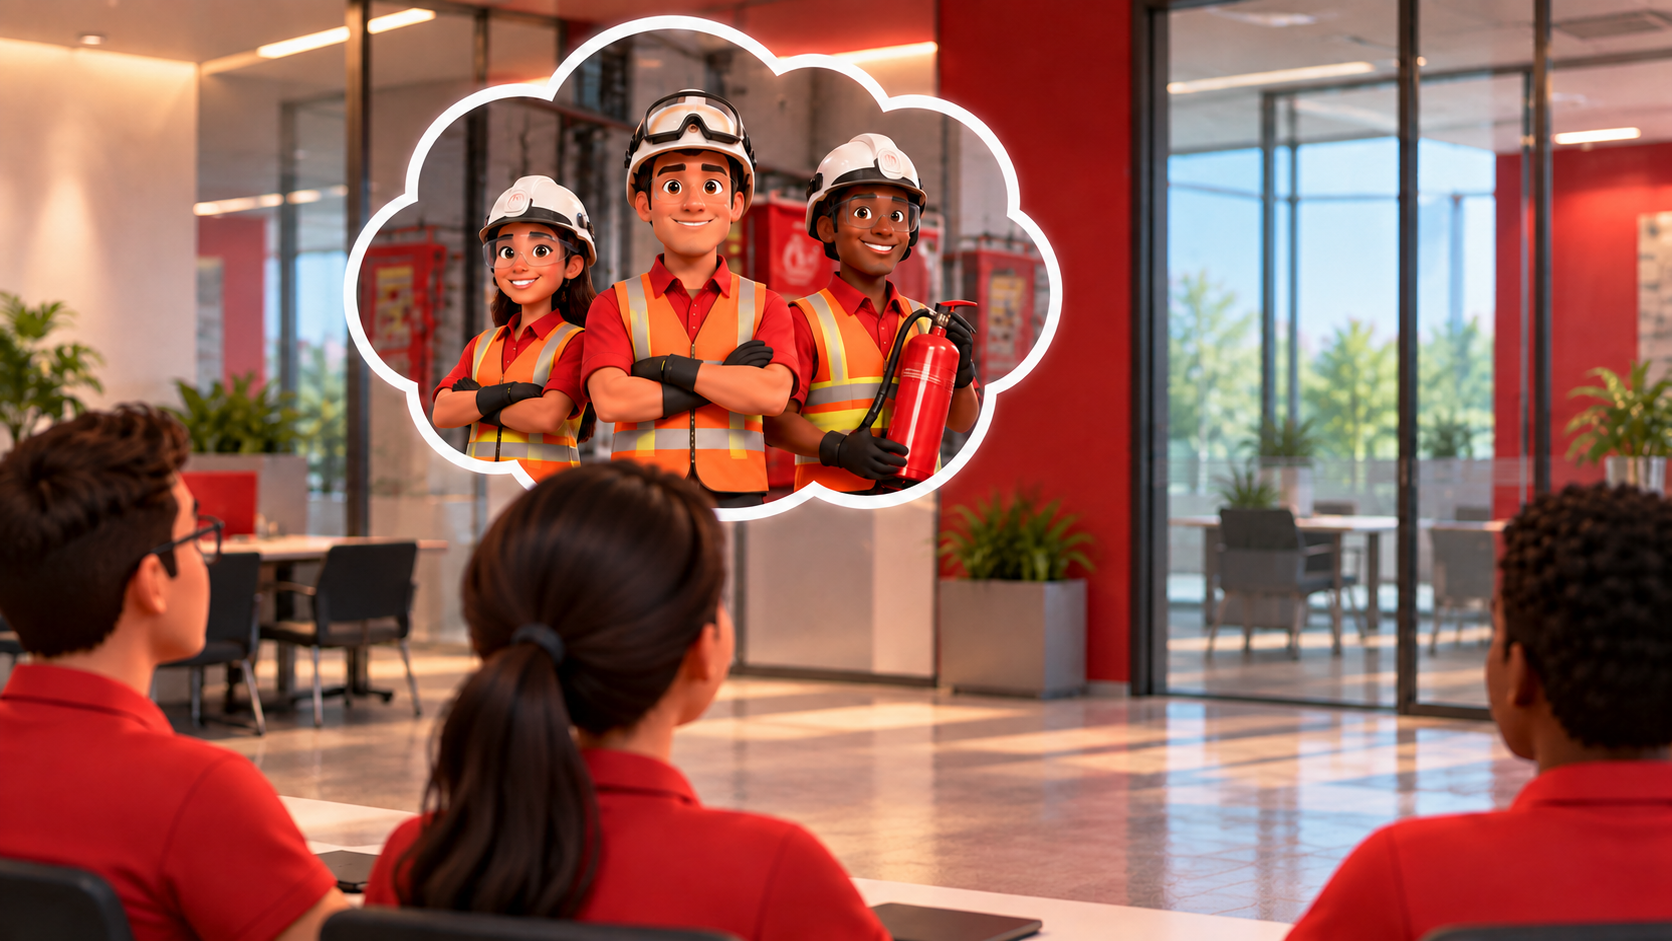
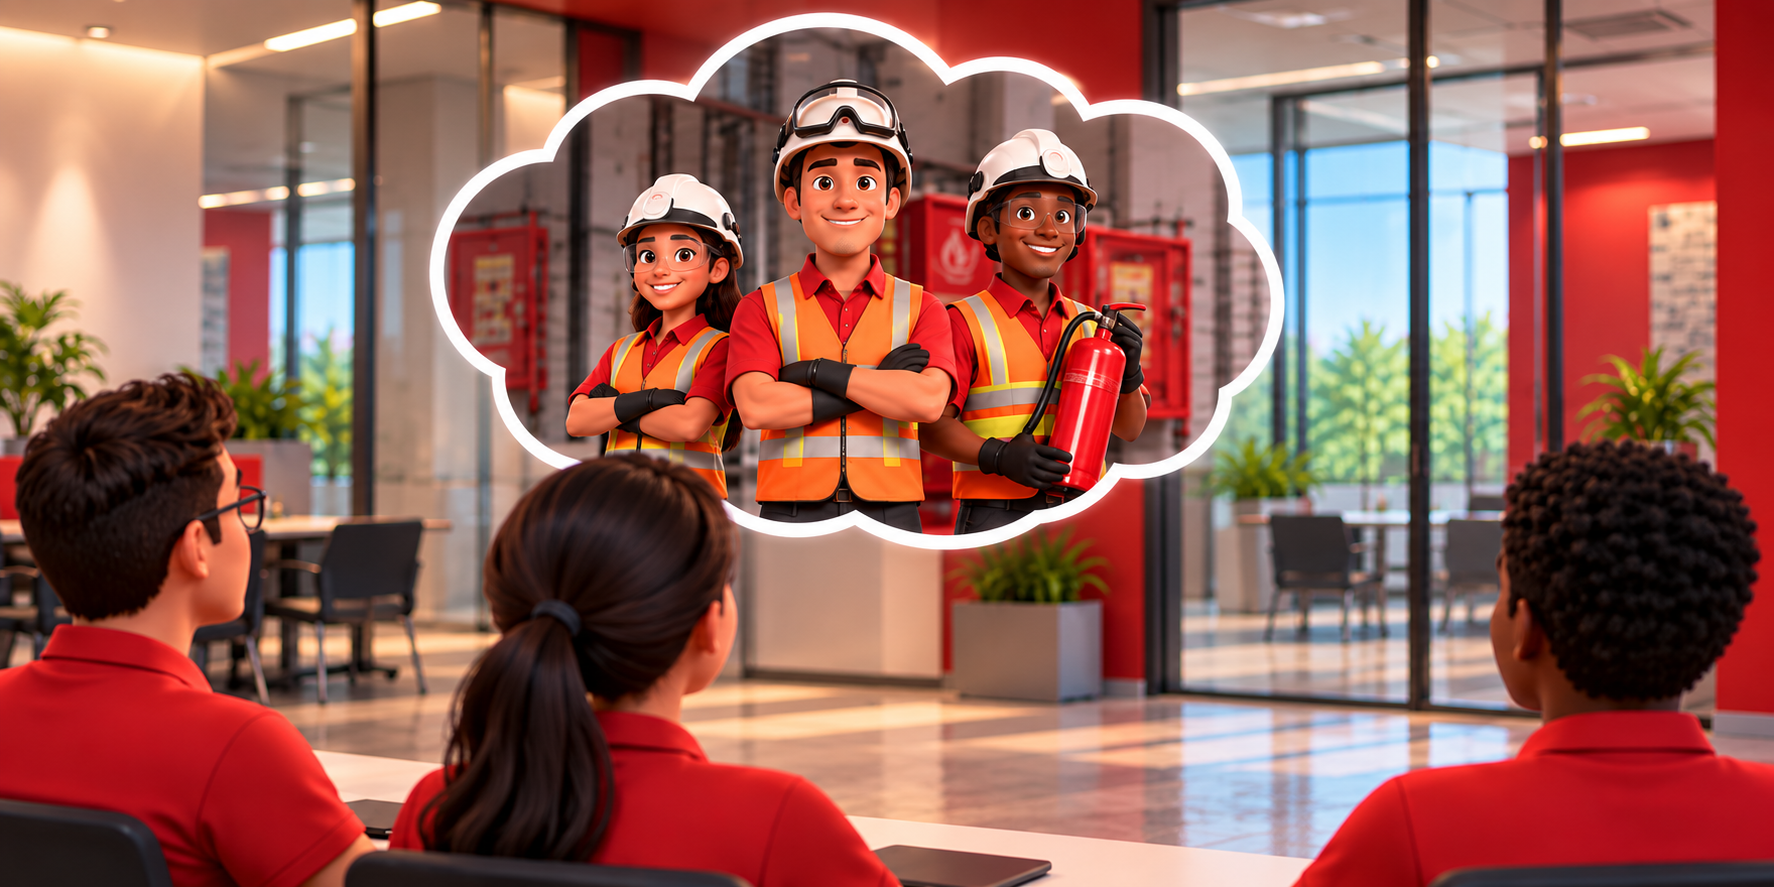
Update quiz images and crop for module 1 question 1.
Adds question photos across modules and adjusts m1-q1 image position.

diff --git a/question-screen-data.js b/question-screen-data.js
@@ -155,7 +155,9 @@ window.QUESTION_SCREEN_SESSION = {
           ],
           "explanation": "A brigada é um grupo organizado de colaboradores capacitados para prevenir, combater, evacuar e prestar primeiros socorros.",
           "review": "Definição de Brigada de Incêndio",
-          "transcript": "O que é a Brigada de Incêndio?"
+          "transcript": "O que é a Brigada de Incêndio?",
+          "image": "assets/fotos/m1=p1.png",
+          "imagePosition": "center 28%"
         },
         {
           "id": "m1-q2",
@@ -185,7 +187,8 @@ window.QUESTION_SCREEN_SESSION = {
           ],
           "explanation": "O Líder da Brigada comanda a ação nos primeiros minutos.",
           "review": "Papel do Líder da Brigada",
-          "transcript": "Quem comanda a ação nos primeiros minutos de uma emergência?"
+          "transcript": "Quem comanda a ação nos primeiros minutos de uma emergência?",
+          "image": "assets/fotos/m1=p2.png"
         },
         {
           "id": "m1-q3",
@@ -215,7 +218,8 @@ window.QUESTION_SCREEN_SESSION = {
           ],
           "explanation": "No abandono de área, remova todos para um local seguro a no mínimo 100 metros do sinistro.",
           "review": "Distância mínima no abandono de área",
-          "transcript": "Qual é a distância mínima recomendada no abandono de área?"
+          "transcript": "Qual é a distância mínima recomendada no abandono de área?",
+          "image": "assets/fotos/m1=p3.png"
         },
         {
           "id": "m1-q4",
@@ -245,7 +249,8 @@ window.QUESTION_SCREEN_SESSION = {
           ],
           "explanation": "A sequência é: alerta, análise, corte de energia, abandono, primeiros socorros e confinamento.",
           "review": "Ordem dos procedimentos básicos",
-          "transcript": "Qual é a ordem correta dos procedimentos básicos de emergência?"
+          "transcript": "Qual é a ordem correta dos procedimentos básicos de emergência?",
+          "image": "assets/fotos/m1=p4.png"
         }
       ]
     },
@@ -356,7 +361,8 @@ window.QUESTION_SCREEN_SESSION = {
           ],
           "explanation": "Retira o oxigênio do ar (abafamento).",
           "review": "Abafamento com manta",
-          "transcript": "Cobrir a chama com uma manta grossa e abafada…"
+          "transcript": "Cobrir a chama com uma manta grossa e abafada…",
+          "image": "assets/fotos/m2-p9.png"
         },
         {
           "id": "m2-q2",
@@ -376,7 +382,8 @@ window.QUESTION_SCREEN_SESSION = {
           ],
           "explanation": "Mais ar = mais comburente (oxigênio) disponível.",
           "review": "Corrente de ar perto do foco",
-          "transcript": "Uma corrente de ar entrando por uma janela aberta perto do foco de fogo…"
+          "transcript": "Uma corrente de ar entrando por uma janela aberta perto do foco de fogo…",
+          "image": "assets/fotos/m2-p10.png"
         },
         {
           "id": "m2-q3",
@@ -396,7 +403,8 @@ window.QUESTION_SCREEN_SESSION = {
           ],
           "explanation": "Retira o calor (resfriamento).",
           "review": "Resfriamento com água",
-          "transcript": "Jogar água diretamente sobre a base da chama…"
+          "transcript": "Jogar água diretamente sobre a base da chama…",
+          "image": "assets/fotos/m2-p11.png"
         },
         {
           "id": "m2-q4",
@@ -416,7 +424,8 @@ window.QUESTION_SCREEN_SESSION = {
           ],
           "explanation": "Mantém material combustível disponível.",
           "review": "Combustível perto de calor",
-          "transcript": "Deixar caixas de papelão empilhadas perto de um ponto que está esquentando…"
+          "transcript": "Deixar caixas de papelão empilhadas perto de um ponto que está esquentando…",
+          "image": "assets/fotos/m2-p12.png"
         },
         {
           "id": "m2-q5",
@@ -436,7 +445,8 @@ window.QUESTION_SCREEN_SESSION = {
           ],
           "explanation": "Elimina o material combustível do ambiente.",
           "review": "Retirada do material combustível",
-          "transcript": "Retirar o material que está queimando para uma área isolada…"
+          "transcript": "Retirar o material que está queimando para uma área isolada…",
+          "image": "assets/fotos/m2-p1.png"
         }
       ]
     },
@@ -560,7 +570,8 @@ window.QUESTION_SCREEN_SESSION = {
           ],
           "explanation": "Água é indicada para Classe A.",
           "review": "Agente para Classe A",
-          "transcript": "Classe A — papel, tecido, madeira. Qual agente?"
+          "transcript": "Classe A — papel, tecido, madeira. Qual agente?",
+          "image": "assets/fotos/m3-p8.png"
         },
         {
           "id": "m3-q2",
@@ -585,7 +596,8 @@ window.QUESTION_SCREEN_SESSION = {
           ],
           "explanation": "PQS é indicado para Classes B e C. (CO₂ também serve em B/C; nesta rodada o gabarito do roteiro é PQS.)",
           "review": "Agente para Classe B",
-          "transcript": "Classe B — álcool, gasolina, GLP. Qual agente?"
+          "transcript": "Classe B — álcool, gasolina, GLP. Qual agente?",
+          "image": "assets/fotos/m3-p9.png"
         },
         {
           "id": "m3-q3",
@@ -610,7 +622,8 @@ window.QUESTION_SCREEN_SESSION = {
           ],
           "explanation": "CO₂ (ou PQS) para Classe C. Nunca água em equipamento energizado.",
           "review": "Agente para Classe C",
-          "transcript": "Classe C — quadro elétrico energizado. Qual agente?"
+          "transcript": "Classe C — quadro elétrico energizado. Qual agente?",
+          "image": "assets/fotos/m3-p10.png"
         },
         {
           "id": "m3-q4",
@@ -635,7 +648,8 @@ window.QUESTION_SCREEN_SESSION = {
           ],
           "explanation": "Classe D exige agente específico para metais — não use água nem PQS comum.",
           "review": "Agente para Classe D",
-          "transcript": "Classe D — raspas de metal. Qual agente?"
+          "transcript": "Classe D — raspas de metal. Qual agente?",
+          "image": "assets/fotos/m3-p11.png"
         }
       ]
     },
@@ -784,7 +798,8 @@ window.QUESTION_SCREEN_SESSION = {
           ],
           "explanation": "Plugue em T sobrecarrega a tomada — risco real.",
           "review": "Plugue em T na copa",
-          "transcript": "Na copa: várias tomadas ligadas num único plugue em T atrás do micro-ondas. Isso é…"
+          "transcript": "Na copa: várias tomadas ligadas num único plugue em T atrás do micro-ondas. Isso é…",
+          "image": "assets/fotos/m4-p1.png"
         },
         {
           "id": "m4-q2",
@@ -809,7 +824,8 @@ window.QUESTION_SCREEN_SESSION = {
           ],
           "explanation": "Não se deve cobrir fios elétricos com tapetes.",
           "review": "Fio sob o tapete",
-          "transcript": "Fio da cafeteira passando por baixo de um tapete. Isso é…"
+          "transcript": "Fio da cafeteira passando por baixo de um tapete. Isso é…",
+          "image": "assets/fotos/p23.png"
         },
         {
           "id": "m4-q3",
@@ -834,7 +850,8 @@ window.QUESTION_SCREEN_SESSION = {
           ],
           "explanation": "Extintor instalado corretamente é isca — não clique como risco.",
           "review": "Extintor correto (isca)",
-          "transcript": "Extintor de PQS fixado na parede, com o pino no lugar. Isso é…"
+          "transcript": "Extintor de PQS fixado na parede, com o pino no lugar. Isso é…",
+          "image": "assets/fotos/p24.1.png"
         },
         {
           "id": "m4-q4",
@@ -859,7 +876,8 @@ window.QUESTION_SCREEN_SESSION = {
           ],
           "explanation": "Material combustível junto ao quadro elétrico é risco grave.",
           "review": "Caixas no quadro elétrico",
-          "transcript": "Caixas de papelão empilhadas encostadas no quadro de distribuição elétrica. Isso é…"
+          "transcript": "Caixas de papelão empilhadas encostadas no quadro de distribuição elétrica. Isso é…",
+          "image": "assets/fotos/p24.2.png"
         }
       ]
     },
@@ -964,7 +982,8 @@ window.QUESTION_SCREEN_SESSION = {
           ],
           "explanation": "Pânico é uma reação intensa e desorganizada — o foco é reconhecê-la e conter com calma, não “eliminar a qualquer custo”.",
           "review": "Afirmativa sobre pânico",
-          "transcript": "O pânico é sempre a pior reação possível numa emergência e deve ser eliminado a qualquer custo."
+          "transcript": "O pânico é sempre a pior reação possível numa emergência e deve ser eliminado a qualquer custo.",
+          "image": "assets/fotos/m5-p1.png"
         },
         {
           "id": "m5-q2",
@@ -984,7 +1003,8 @@ window.QUESTION_SCREEN_SESSION = {
           ],
           "explanation": "Pessoas tendem a seguir quem demonstra controle e calma.",
           "review": "Calma do brigadista",
-          "transcript": "Um brigadista calmo pode evitar o pânico se espalhar entre as outras pessoas."
+          "transcript": "Um brigadista calmo pode evitar o pânico se espalhar entre as outras pessoas.",
+          "image": "assets/fotos/pergunta-variacao.png"
         },
         {
           "id": "m5-q3",
@@ -1004,7 +1024,8 @@ window.QUESTION_SCREEN_SESSION = {
           ],
           "explanation": "Obediência cega é uma reação possível — não é sempre positiva; o brigadista precisa de comunicação clara e segura.",
           "review": "Obediência cega",
-          "transcript": "A obediência cega, seguir ordens sem questionar, é sempre uma reação positiva numa emergência."
+          "transcript": "A obediência cega, seguir ordens sem questionar, é sempre uma reação positiva numa emergência.",
+          "image": "assets/fotos/capa-modulo1.png"
         },
         {
           "id": "m5-q4",
@@ -1024,7 +1045,8 @@ window.QUESTION_SCREEN_SESSION = {
           ],
           "explanation": "Cuidar de quem cuida faz parte do preparo.",
           "review": "Apoio psicológico após evento crítico",
-          "transcript": "O brigadista também deve buscar apoio psicológico após viver um evento crítico."
+          "transcript": "O brigadista também deve buscar apoio psicológico após viver um evento crítico.",
+          "image": "assets/fotos/final.png"
         }
       ]
     },
@@ -1173,7 +1195,8 @@ window.QUESTION_SCREEN_SESSION = {
           ],
           "explanation": "Nunca toque a vítima enquanto a energia não for cortada.",
           "review": "Primeira decisão — choque elétrico",
-          "transcript": "Colega caído perto de uma tomada, aparentemente após choque. O que fazer primeiro?"
+          "transcript": "Colega caído perto de uma tomada, aparentemente após choque. O que fazer primeiro?",
+          "image": "assets/fotos/capa.png"
         },
         {
           "id": "m6-q2",
@@ -1193,7 +1216,8 @@ window.QUESTION_SCREEN_SESSION = {
           ],
           "explanation": "Pomadas em queimaduras podem piorar a lesão — a orientação nunca é essa.",
           "review": "Segunda decisão — avaliação",
-          "transcript": "Energia desligada. Próximo passo?"
+          "transcript": "Energia desligada. Próximo passo?",
+          "image": "assets/fotos/capafinal.png"
         },
         {
           "id": "m6-q3",
@@ -1213,7 +1237,8 @@ window.QUESTION_SCREEN_SESSION = {
           ],
           "explanation": "Gelo direto na lesão agrava o dano nos tecidos — nunca aplique.",
           "review": "Terceira decisão — conduta final",
-          "transcript": "Vítima respirando, com queimadura visível no braço. Ação final?"
+          "transcript": "Vítima respirando, com queimadura visível no braço. Ação final?",
+          "image": "assets/fotos/pag18.png"
         }
       ]
     },

diff --git a/sessao-aprender.html b/sessao-aprender.html
@@ -6,7 +6,7 @@
   <meta name="referrer" content="no-referrer">
   <title>NR 23 — Brigada de Incêndio</title>
   <link href="https://fonts.googleapis.com/css2?family=Montserrat:wght@400;600;700;800;900&family=Open+Sans:wght@400;600;700&display=swap" rel="stylesheet">
-  <link rel="stylesheet" href="question-screen.css?v=mob47">
+  <link rel="stylesheet" href="question-screen.css?v=mob49">
   <style>
     html, body { margin: 0; height: 100%; overflow: hidden; }
   </style>
@@ -146,8 +146,8 @@
 
   <audio id="bg-music" loop preload="metadata" aria-hidden="true"></audio>
 
-  <script src="question-screen-data.js?v=mob47"></script>
-  <script src="question-screen.js?v=mob47"></script>
+  <script src="question-screen-data.js?v=mob50"></script>
+  <script src="question-screen.js?v=mob49"></script>
   <script src="narration-text.js?v=mob40"></script>
   <script src="narration.js?v=mob40"></script>
   <script>
